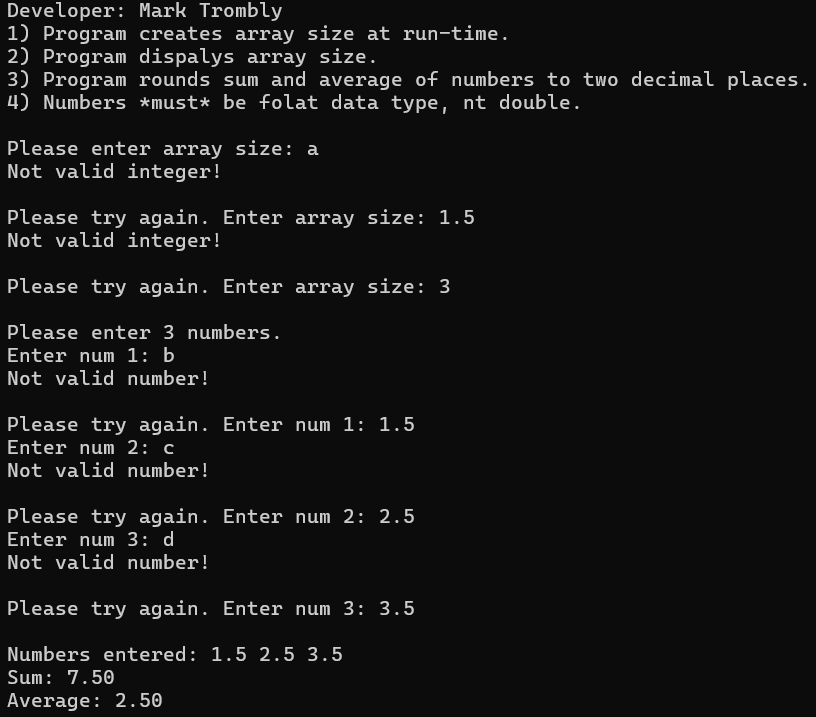
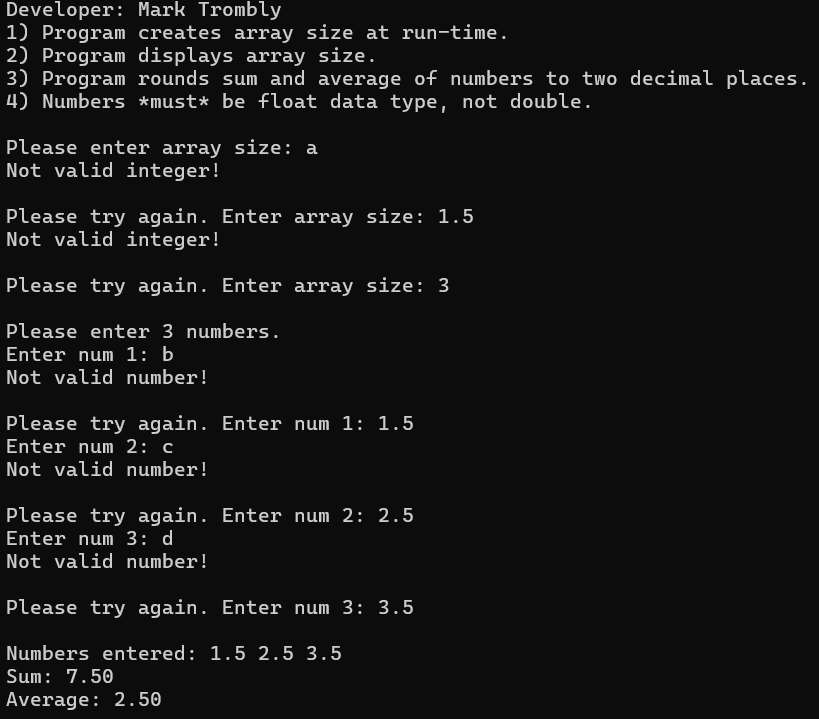
Project #1 update skillset 8 and 9 text

diff --git a/skillsets/8_Largest_Three_Numbers/Methods.java b/skillsets/8_Largest_Three_Numbers/Methods.java
@@ -29,6 +29,7 @@ public class Methods
                 System.out.print("Please try again. Enter first number: ");
             }
         num1 = sc.nextInt();
+        System.out.println();
 
         System.out.print("Please enter second number: ");
 
@@ -39,6 +40,7 @@ public class Methods
                 System.out.print("Please try again. Enter second number: ");
             }
         num2 = sc.nextInt();
+        System.out.println();
 
         System.out.print("Please enter third number: ");
 
@@ -59,11 +61,11 @@ public class Methods
         System.out.println("Numbers entered: " + num1 + ", " + num2 + ", " + num3);
 
         if ( num1 > num2 && num1 > num3 )
-            System.out.println(num1 + " is largest.");
+            System.out.println("First number is largest.");
         else if ( num2 > num1 && num2 > num3)
-            System.out.println(num1 + " is largest.");
+            System.out.println("Second number is largest.");
         else if ( num3 > num1 && num3 > num2 )
-            System.out.println(num3 + " is largest.");
+            System.out.println("Third number is largest.");
         else
             System.out.println("Integers are equal.");
     }

diff --git a/skillsets/9_Array-Runtime-Data-Validation/Methods.java b/skillsets/9_Array-Runtime-Data-Validation/Methods.java
@@ -10,9 +10,9 @@ public class Methods
         //display operational messages
         System.out.println( "Developer: Mark Trombly");
         System.out.println( "1) Program creates array size at run-time.\n" +
-                            "2) Program dispalys array size.\n" +
+                            "2) Program displays array size.\n" +
                             "3) Program rounds sum and average of numbers to two decimal places.\n" +
-                            "4) Numbers *must* be folat data type, nt double.");
+                            "4) Numbers *must* be float data type, not double.");
 
         System.out.println();  //print blank line
     }
